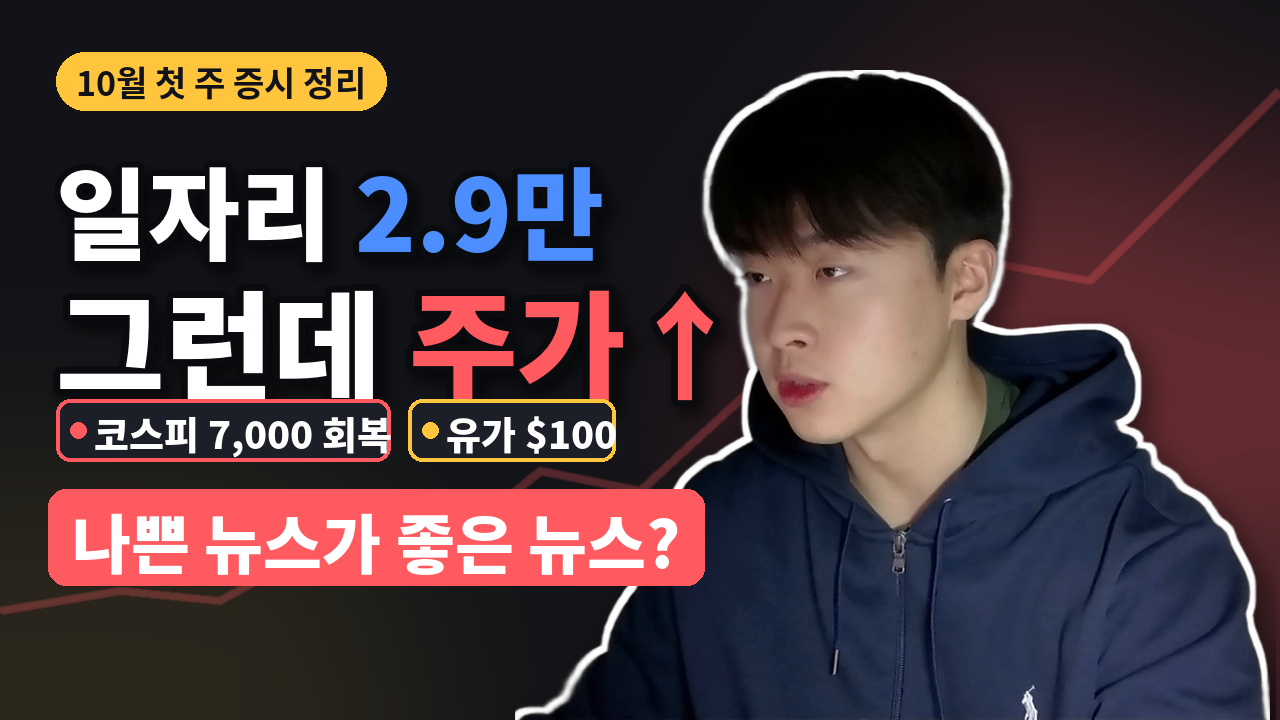
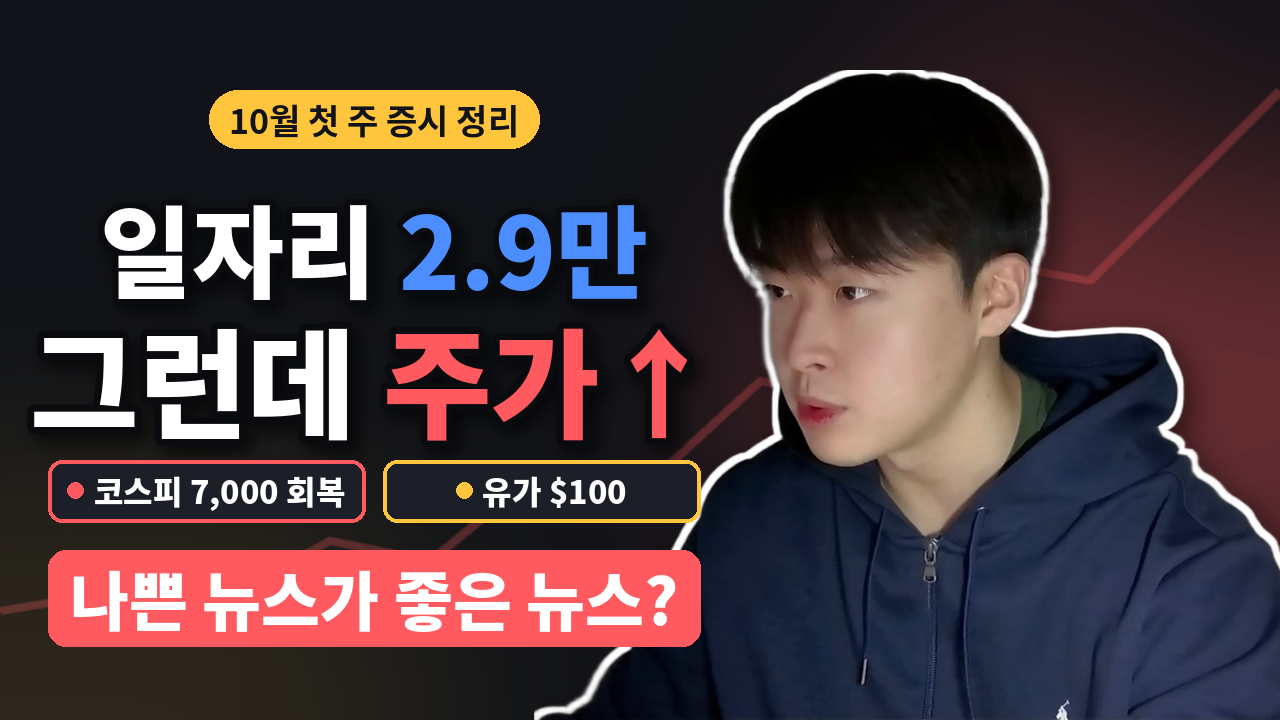
썸네일 글씨를 좌우 대칭으로 배치하는 center 정렬 추가, 10/3 썸네일 다른 컷으로 교체
배지·큰 문구는 가운데, 칩은 같은 폭, 질문 띠는 묶음 폭 그대로. 묶음은 글씨 칸과 화면 높이의 가운데.

Claude-Session: https://claude.ai/code/session_01QHbYmFApHJm83EjnbH7XQa

diff --git a/youtube/tools/thumbnail.py b/youtube/tools/thumbnail.py
@@ -86,33 +86,7 @@ def person_layer(src, cutout, height):
     return layer
 
 
-def main():
-    p = argparse.ArgumentParser(description=__doc__, formatter_class=argparse.RawDescriptionHelpFormatter)
-    p.add_argument("person", help="인물 이미지 (배경 투명 PNG, 또는 --cutout 과 함께 영상 프레임)")
-    p.add_argument("--cutout", action="store_true", help="rembg 로 배경을 지운다")
-    p.add_argument("--height", type=int, default=650, help="인물 높이(px)")
-    p.add_argument("--right", type=int, default=1300, help="인물 오른쪽 끝 x (화면 밖으로 조금 넘겨도 됨)")
-    p.add_argument("-o", "--out", default="thumbnail.png")
-    p.add_argument("--config", help="문구 JSON: badge, lines[[[글자,색],...],크기], chips[[글자,색]], question. 색은 white/up/down/accent")
-    args = p.parse_args()
-    if args.config:
-        import json
-        global BADGE, LINES, CHIPS, QUESTION
-        col = {"white": WHITE, "up": UP, "down": DOWN, "accent": ACCENT}
-        with open(args.config, encoding="utf-8") as f:
-            cfg = json.load(f)
-        BADGE = cfg.get("badge", BADGE)
-        if "lines" in cfg:
-            LINES = [([(t, col[c]) for t, c in parts], size) for parts, size in cfg["lines"]]
-        if "chips" in cfg:
-            CHIPS = [(t, col[c]) for t, c in cfg["chips"]]
-        QUESTION = cfg.get("question", QUESTION)
-
-    img = background()
-    person = person_layer(args.person, args.cutout, args.height)
-    img.alpha_composite(person, (args.right - person.width, H - person.height + 30))
-
-    d = ImageDraw.Draw(img)
+def draw_text_left(img, d):
     x, y = 56, 52
     # 배지
     bf = font(BOLD, 34)
@@ -143,6 +117,94 @@ def main():
     qw = text_w(d, QUESTION, qf)
     d.rounded_rectangle((x - 8, y, x + qw + 40, y + 96), 18, fill=UP)
     draw_outlined(img, (x + 16, y + 4), QUESTION, qf, WHITE, stroke=0, shadow=False)
+
+
+def draw_text_centered(img, d, left, right):
+    """글씨 묶음을 한 폭(가장 긴 줄)에 맞춰 좌우 대칭으로 놓는다.
+    배지·큰 문구는 가운데 정렬, 칩은 같은 폭으로 나눠 채우고, 질문 띠는 묶음 폭 그대로. 묶음은 글씨 칸과 화면 높이의 가운데."""
+    def line_w(parts, size):
+        f = font(BLACK, size)
+        return sum(text_w(d, t, f) for t, _ in parts)
+
+    bw = max(line_w(p, s) for p, s in LINES)
+    qf = font(BLACK, 64)
+    bw = max(bw, text_w(d, QUESTION, qf) + 64)
+    bw = min(bw, right - left)
+    x0 = left + ((right - left) - bw) / 2
+    cxm = x0 + bw / 2
+    gap, chip_h, q_h, badge_h = 18, 62, 96, 58
+    heights = [badge_h + 26] + [int(s * 1.18) for _, s in LINES] + [28, chip_h + 28, q_h]
+    y = (H - sum(heights)) / 2 + 8
+    # 배지
+    bf = font(BOLD, 34)
+    w = text_w(d, BADGE, bf) + 40
+    d.rounded_rectangle((cxm - w / 2, y, cxm + w / 2, y + badge_h), 29, fill=ACCENT)
+    d.text((cxm, y + badge_h / 2), BADGE, font=bf, fill=BG, anchor="mm")
+    y += badge_h + 26
+    # 큰 문구
+    for parts, size in LINES:
+        f = font(BLACK, size)
+        cx = cxm - line_w(parts, size) / 2
+        for t, color in parts:
+            draw_outlined(img, (cx, y), t, f, color, stroke=max(6, size // 16))
+            cx += text_w(d, t, f)
+        y += int(size * 1.18)
+    y += 28                     # 큰 글씨 획(외곽선)이 칩에 닿지 않게
+    # 칩: 같은 폭으로
+    n = len(CHIPS)
+    cw = (bw - gap * (n - 1)) / n
+    size = 38
+    while size > 24 and max(text_w(d, t, font(BLACK, size)) for t, _ in CHIPS) > cw - 54:
+        size -= 2
+    cf = font(BLACK, size)
+    for i, (t, color) in enumerate(CHIPS):
+        cx = x0 + i * (cw + gap)
+        d.rounded_rectangle((cx, y, cx + cw, y + chip_h), 14, fill=(28, 31, 40), outline=color, width=4)
+        tw = text_w(d, t, cf)
+        tx = cx + (cw - (tw + 26)) / 2
+        d.ellipse((tx, y + chip_h / 2 - 8, tx + 16, y + chip_h / 2 + 8), fill=color)
+        d.text((tx + 26, y + chip_h / 2), t, font=cf, fill=WHITE, anchor="lm")
+    y += chip_h + 28
+    # 질문 띠: 묶음 폭 그대로, 글씨 가운데
+    d.rounded_rectangle((x0, y, x0 + bw, y + q_h), 18, fill=UP)
+    d.text((cxm, y + q_h / 2), QUESTION, font=qf, fill=WHITE, anchor="mm")
+
+
+def main():
+    p = argparse.ArgumentParser(description=__doc__, formatter_class=argparse.RawDescriptionHelpFormatter)
+    p.add_argument("person", help="인물 이미지 (배경 투명 PNG, 또는 --cutout 과 함께 영상 프레임)")
+    p.add_argument("--cutout", action="store_true", help="rembg 로 배경을 지운다")
+    p.add_argument("--height", type=int, default=650, help="인물 높이(px)")
+    p.add_argument("--right", type=int, default=1300, help="인물 오른쪽 끝 x (화면 밖으로 조금 넘겨도 됨)")
+    p.add_argument("-o", "--out", default="thumbnail.png")
+    p.add_argument("--align", choices=["left", "center"], default="center",
+                   help="center: 글씨 묶음을 좌우 대칭(같은 폭)으로, left: 예전처럼 왼쪽 정렬")
+    p.add_argument("--text-left", type=int, default=48, help="글씨 칸 왼쪽 x (center 정렬)")
+    p.add_argument("--text-right", type=int, default=700, help="글씨 칸 오른쪽 x (center 정렬, 인물 얼굴 앞)")
+    p.add_argument("--config", help="문구 JSON: badge, lines[[[글자,색],...],크기], chips[[글자,색]], question. 색은 white/up/down/accent")
+    args = p.parse_args()
+    if args.config:
+        import json
+        global BADGE, LINES, CHIPS, QUESTION
+        col = {"white": WHITE, "up": UP, "down": DOWN, "accent": ACCENT}
+        with open(args.config, encoding="utf-8") as f:
+            cfg = json.load(f)
+        BADGE = cfg.get("badge", BADGE)
+        if "lines" in cfg:
+            LINES = [([(t, col[c]) for t, c in parts], size) for parts, size in cfg["lines"]]
+        if "chips" in cfg:
+            CHIPS = [(t, col[c]) for t, c in cfg["chips"]]
+        QUESTION = cfg.get("question", QUESTION)
+
+    img = background()
+    person = person_layer(args.person, args.cutout, args.height)
+    img.alpha_composite(person, (args.right - person.width, H - person.height + 30))
+
+    d = ImageDraw.Draw(img)
+    if args.align == "center":
+        draw_text_centered(img, d, args.text_left, args.text_right)
+    else:
+        draw_text_left(img, d)
 
     img.convert("RGB").save(args.out, quality=95)
     print(f"썸네일: {args.out} ({W}×{H})")
